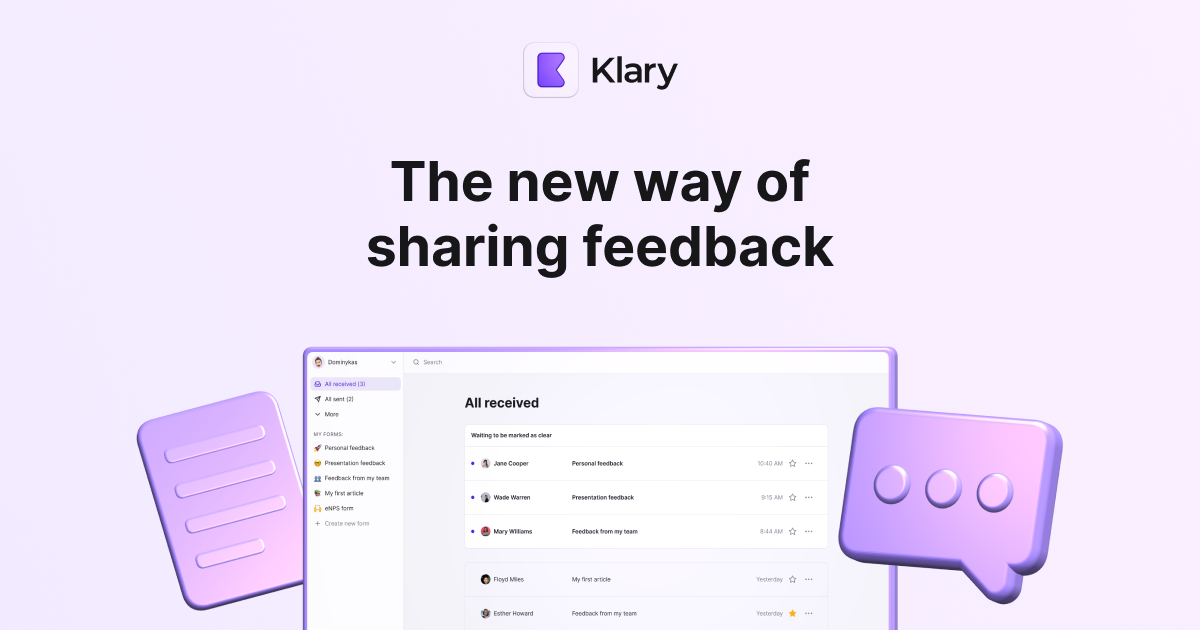
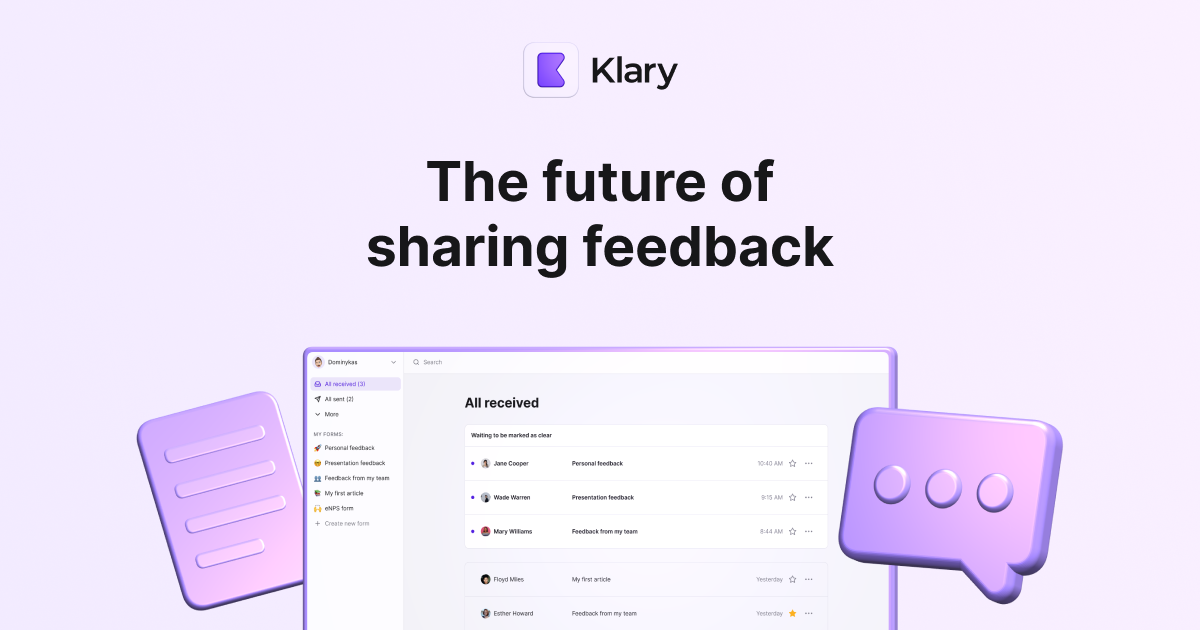
Update text

Changed region(s): [[0.3083, 0.2413, 0.6783, 0.3317]]

diff --git a/src/pages/Home.vue b/src/pages/Home.vue
@@ -17,10 +17,10 @@
         <div class="main__left">
           <div class="main__left-content">
             <h1 class="main__title">
-              The new way of sharing feedback
+              The future of sharing feedback
             </h1>
             <p class="main__subtitle">
-              Be the first to know about our beta release by leaving your email.
+              Give, receive and clarify feedback in one place. Join the waitlist to get early access.
             </p>
             <Input class="main__email-input" />
           </div>
